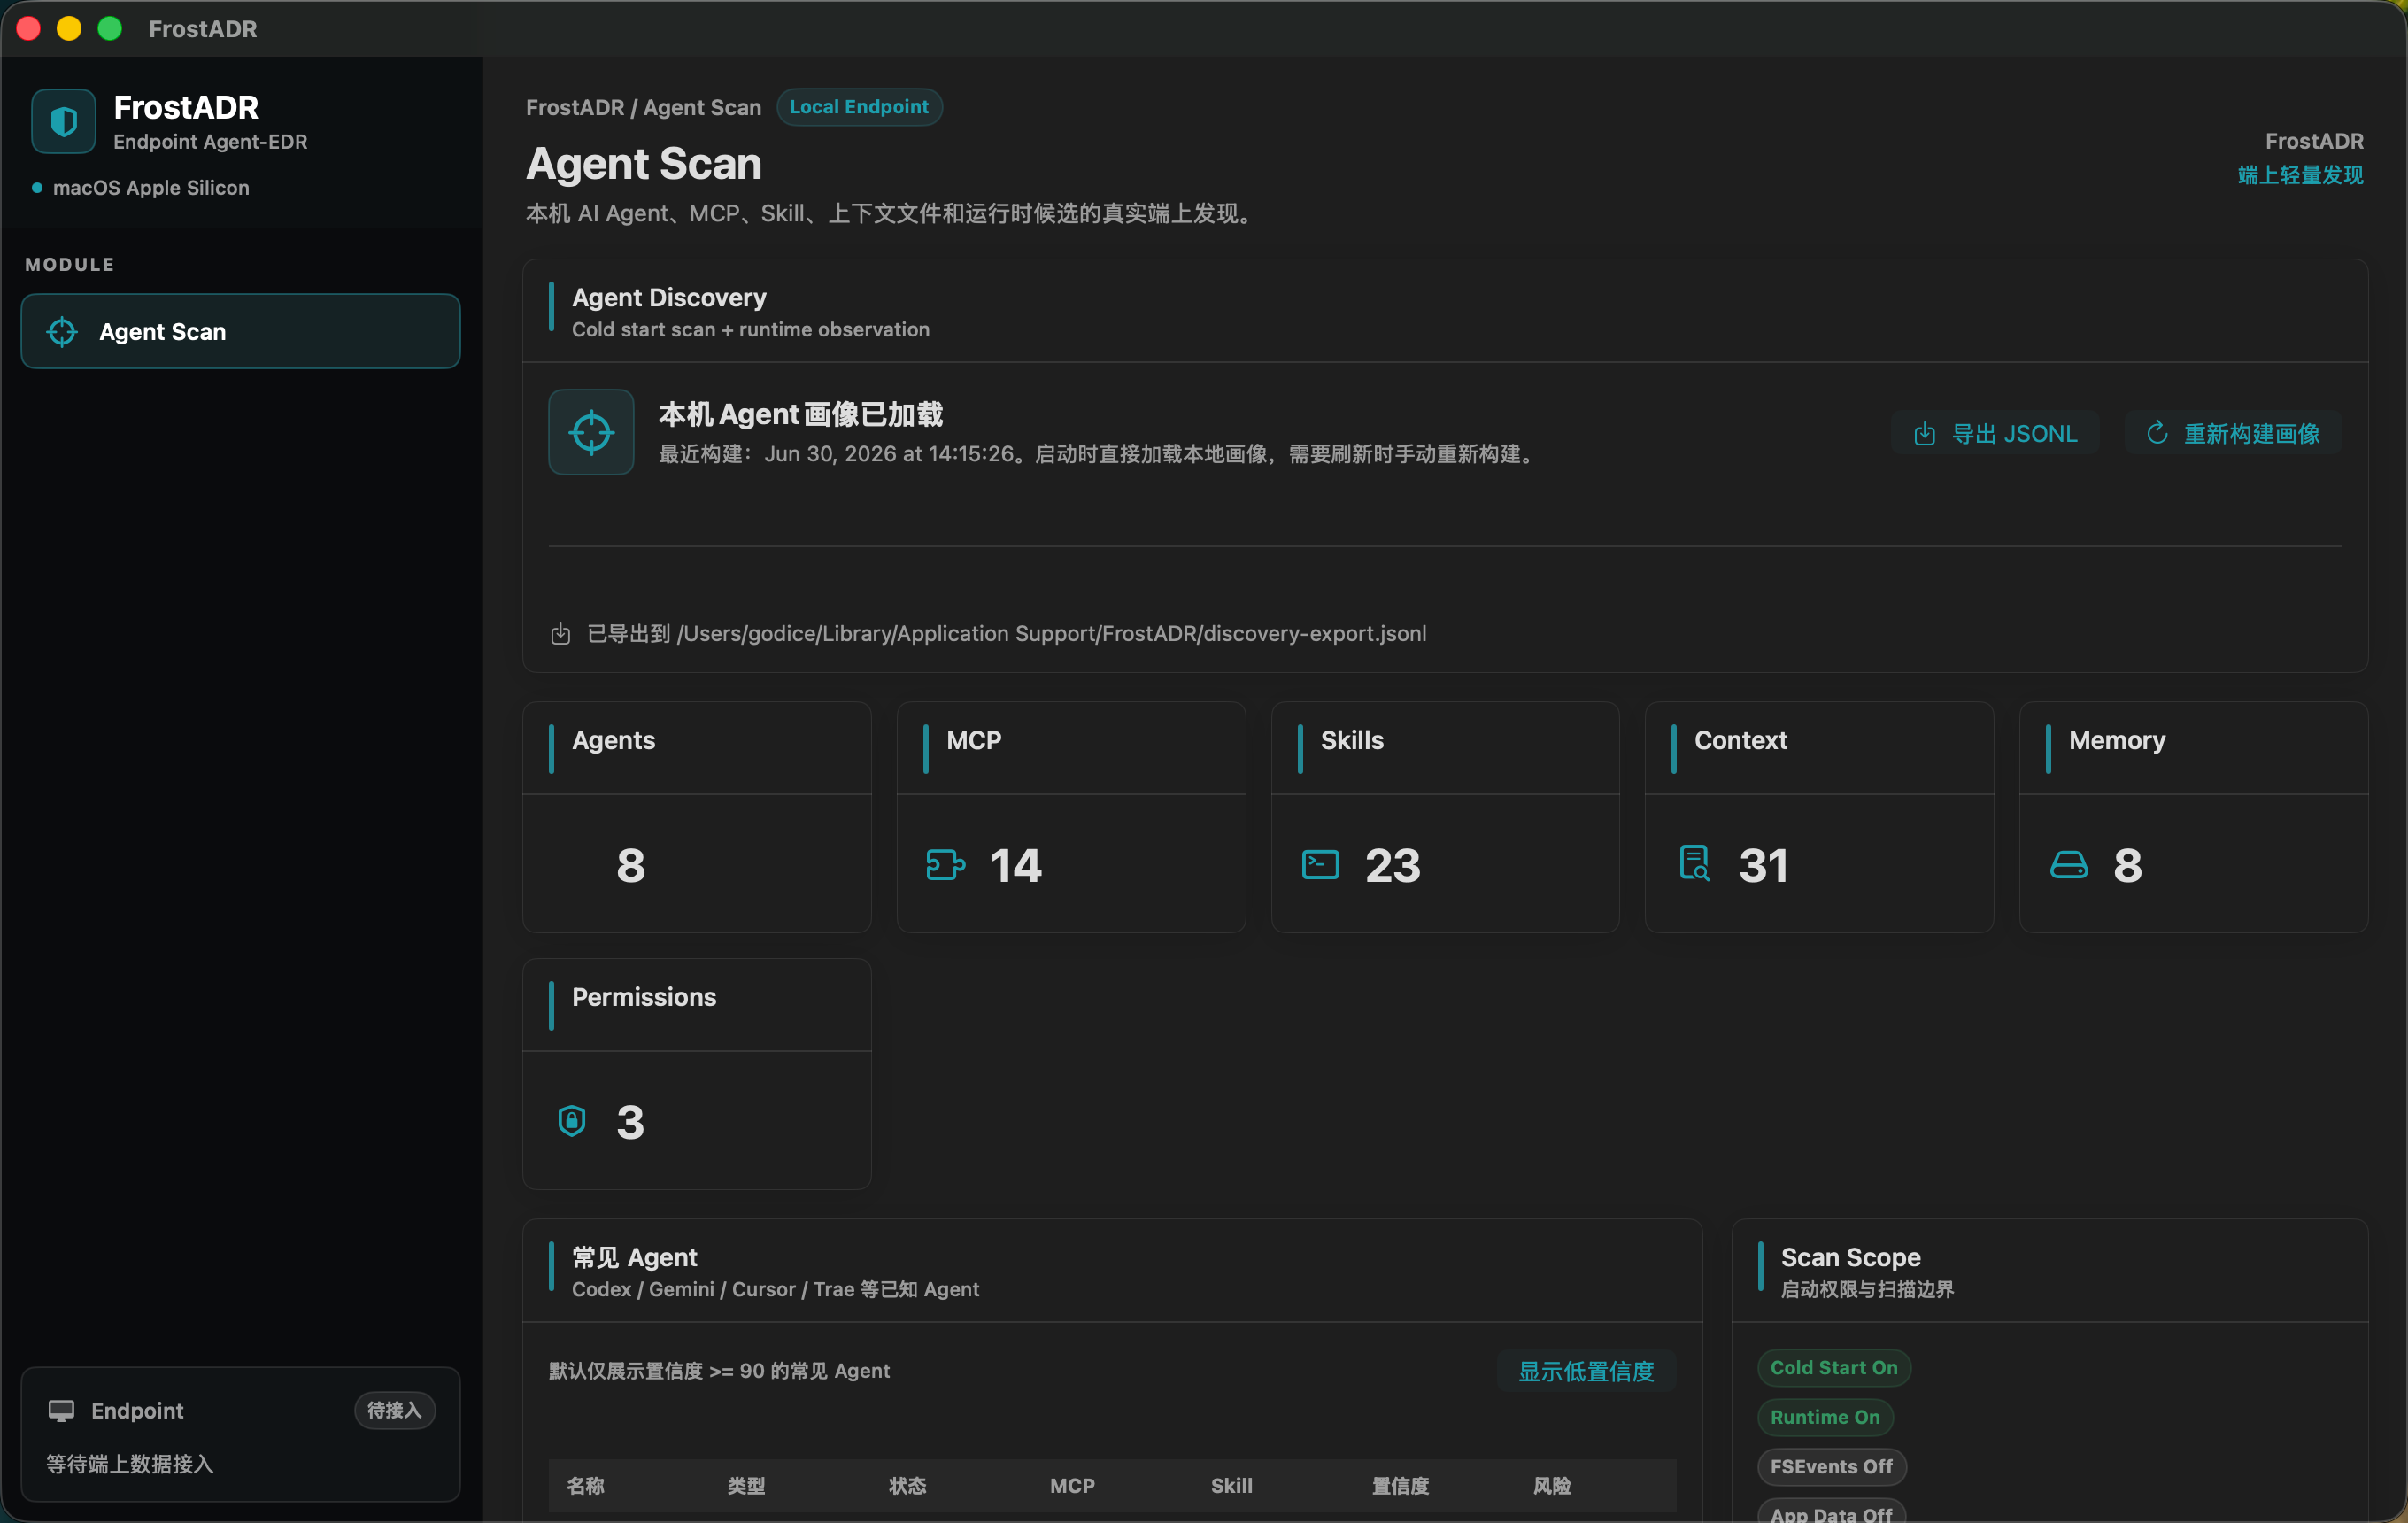
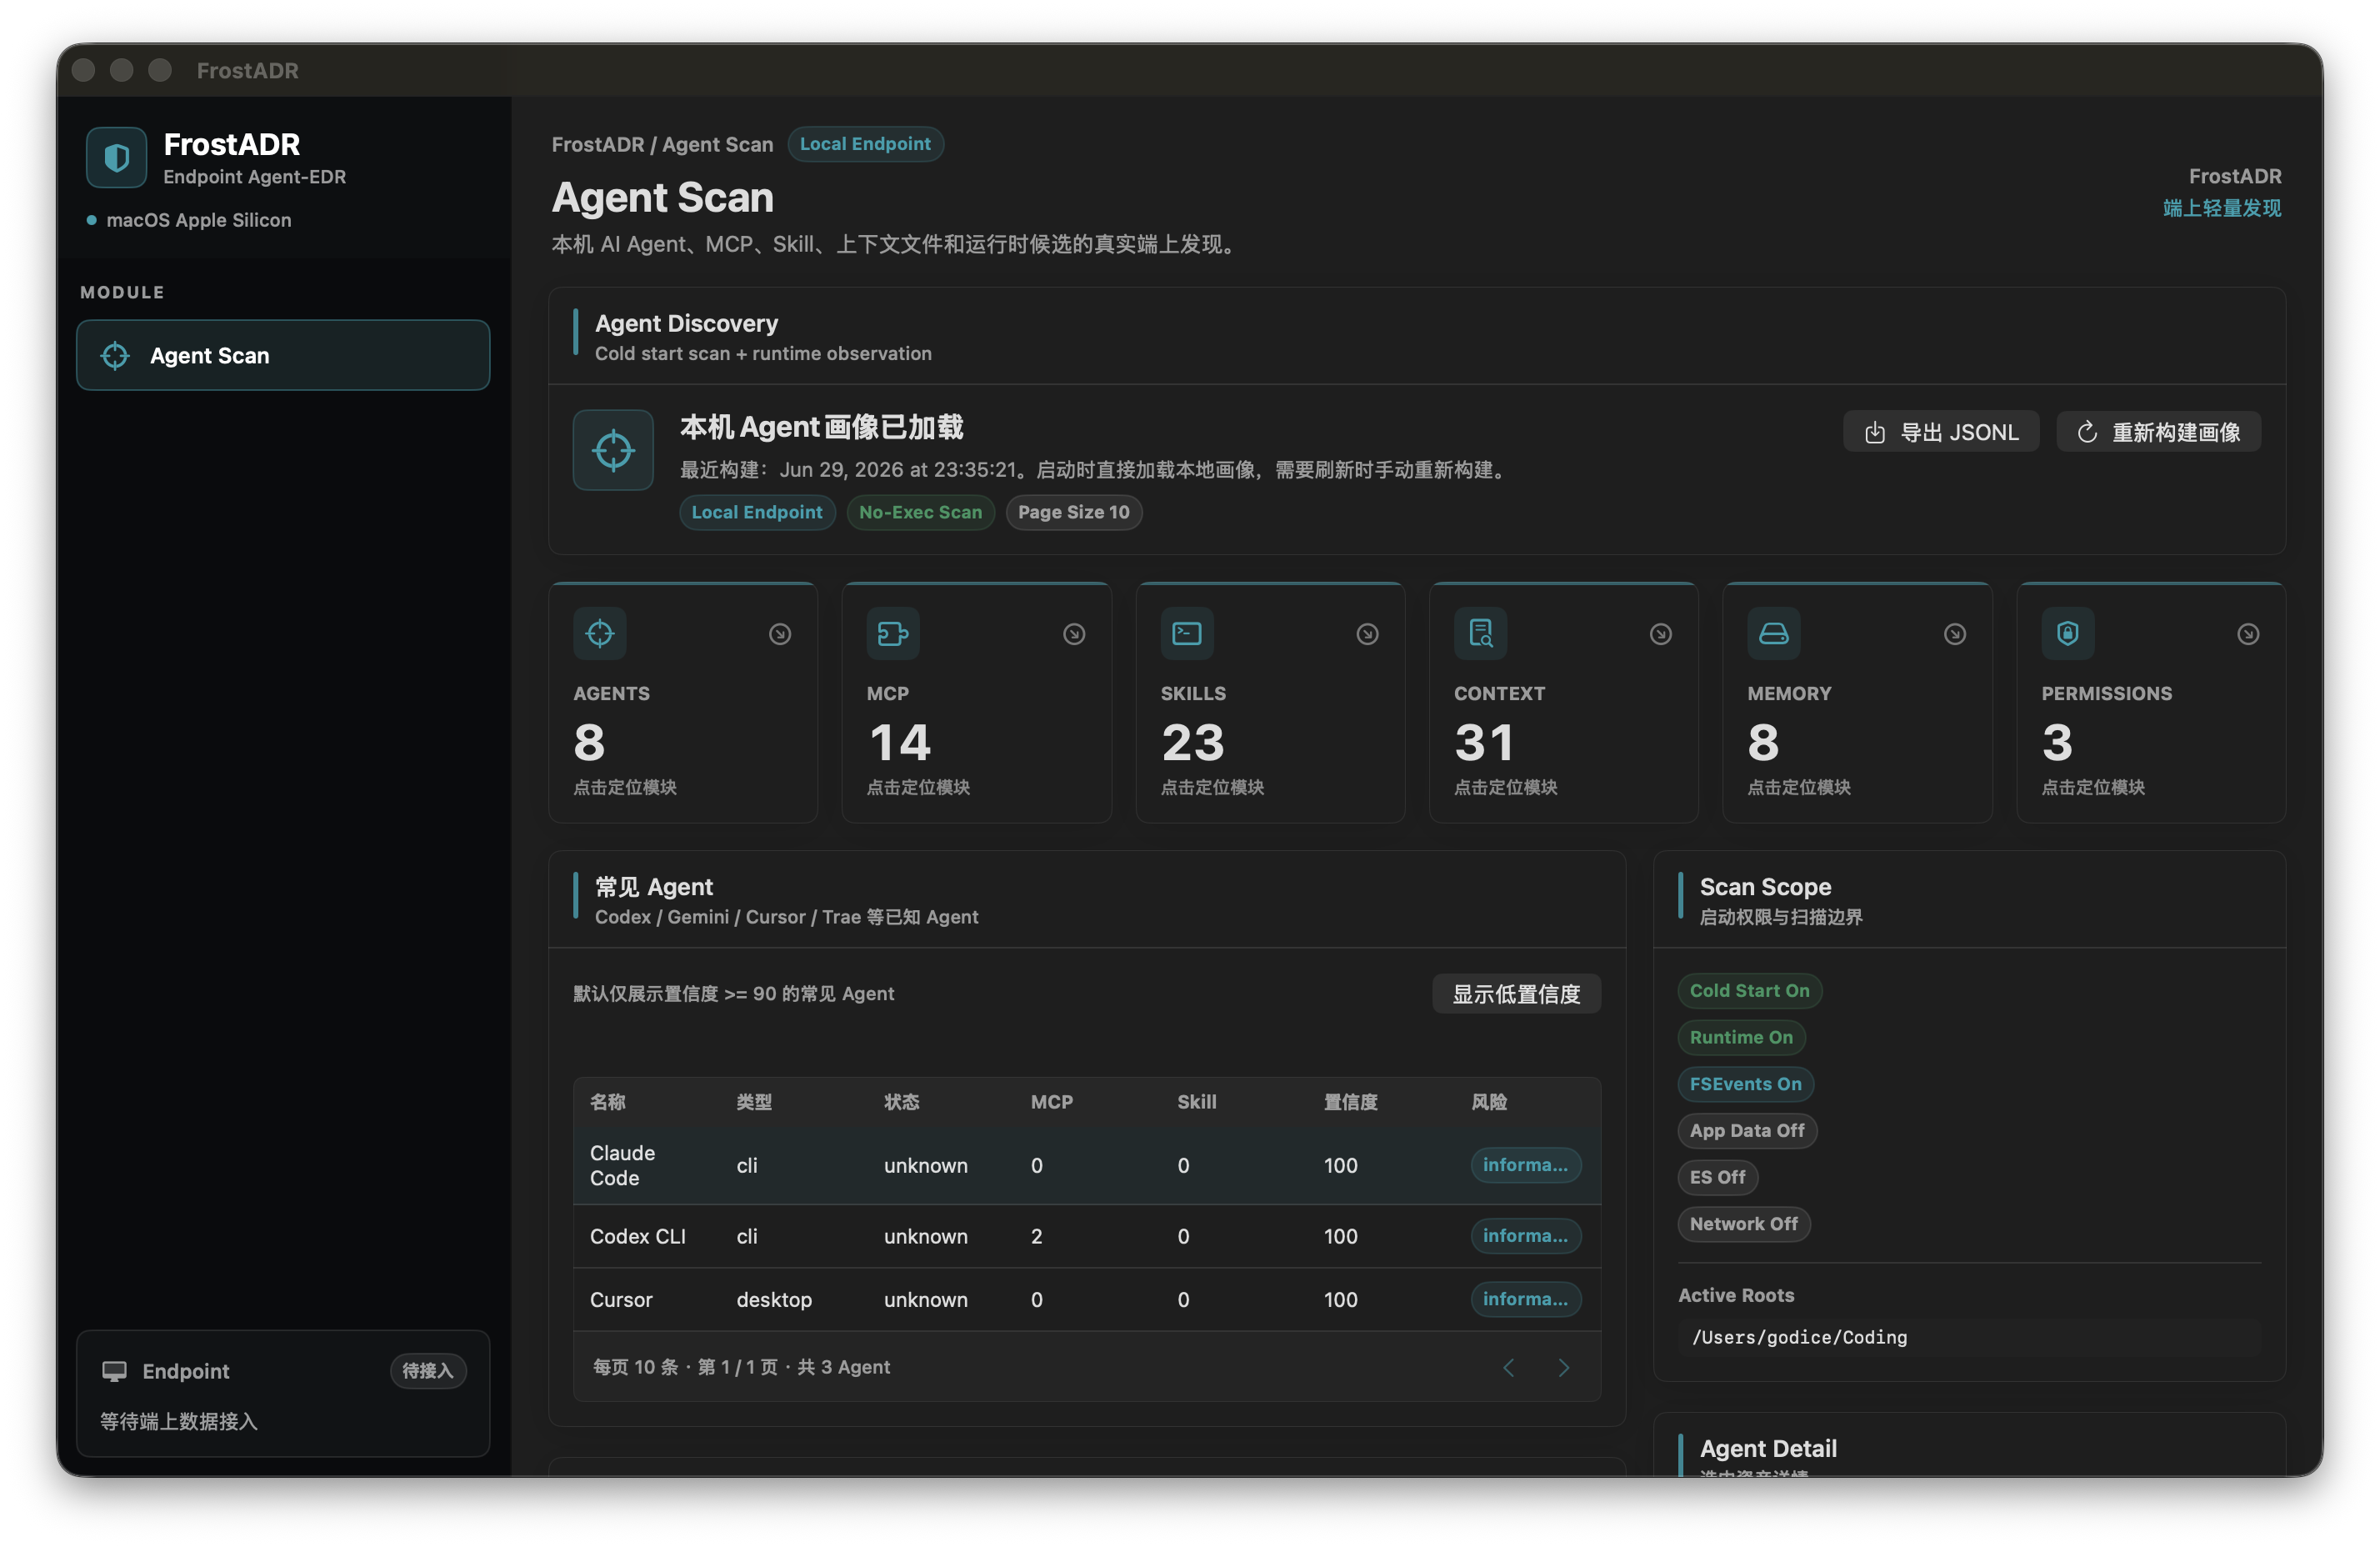
feat(ui): refine agent scan pagination layout

diff --git a/Sources/FrostADR/Views/AgentScan/AgentScanView.swift b/Sources/FrostADR/Views/AgentScan/AgentScanView.swift
@@ -20,8 +20,9 @@ struct AgentScanView: View {
   @State private var skillPage = 0
   @State private var contextPage = 0
   @State private var memoryPage = 0
+  @State private var permissionPage = 0
 
-  private let pageSize = 20
+  private let pageSize = 10
 
   var body: some View {
     ScrollViewReader { scrollProxy in
@@ -44,7 +45,7 @@ struct AgentScanView: View {
 
   private var header: some View {
     FrostCard("Agent Discovery", subtitle: "Cold start scan + runtime observation") {
-      HStack(alignment: .center, spacing: 14) {
+      HStack(alignment: .top, spacing: 16) {
         ZStack {
           RoundedRectangle(cornerRadius: 8, style: .continuous)
             .fill(FrostTheme.accent.opacity(0.13))
@@ -59,35 +60,47 @@ struct AgentScanView: View {
         }
         .frame(width: 48, height: 48)
 
-        VStack(alignment: .leading, spacing: 5) {
+        VStack(alignment: .leading, spacing: 8) {
           Text(viewModel.isScanning ? "正在构建本机Agent画像" : headerTitle)
-            .font(.system(size: 16, weight: .bold))
+            .font(.system(size: 17, weight: .bold))
 
           Text(statusLine)
             .font(.system(size: 12))
             .foregroundStyle(FrostTheme.mutedText)
+            .lineLimit(2)
+            .fixedSize(horizontal: false, vertical: true)
+
+          HStack(spacing: 7) {
+            StatusBadge(label: "Local Endpoint", tone: .info)
+            StatusBadge(label: "No-Exec Scan", tone: .healthy)
+            StatusBadge(label: "Page Size 10", tone: .neutral)
+          }
         }
 
         Spacer()
 
-        if viewModel.isScanning {
-          ProgressView()
-            .controlSize(.small)
-        }
+        HStack(spacing: 10) {
+          if viewModel.isScanning {
+            ProgressView()
+              .controlSize(.small)
+          }
 
-        Button {
-          viewModel.exportJSONL()
-        } label: {
-          Label("导出 JSONL", systemImage: "square.and.arrow.down")
-        }
-        .disabled(viewModel.isScanning)
+          Button {
+            viewModel.exportJSONL()
+          } label: {
+            Label("导出 JSONL", systemImage: "square.and.arrow.down")
+          }
+          .disabled(viewModel.isScanning)
 
-        Button {
-          viewModel.rescan()
-        } label: {
-          Label("重新构建画像", systemImage: "arrow.clockwise")
+          Button {
+            viewModel.rescan()
+          } label: {
+            Label("重新构建画像", systemImage: "arrow.clockwise")
+          }
+          .buttonStyle(.borderedProminent)
+          .tint(FrostTheme.accent)
+          .disabled(viewModel.isScanning)
         }
-        .disabled(viewModel.isScanning)
       }
 
       if let error = viewModel.errorMessage {
@@ -114,11 +127,11 @@ struct AgentScanView: View {
   }
 
   private func summaryGrid(_ scrollProxy: ScrollViewProxy) -> some View {
-    LazyVGrid(columns: [GridItem(.adaptive(minimum: 170), spacing: 14)], spacing: 14) {
+    LazyVGrid(columns: [GridItem(.adaptive(minimum: 150), spacing: 14)], spacing: 14) {
       metric(
         "Agents",
         value: viewModel.snapshot.agents.count,
-        icon: "laptopcomputer.and.magnifyingglass",
+        icon: "scope",
         section: .agents,
         scrollProxy: scrollProxy
       )
@@ -172,20 +185,56 @@ struct AgentScanView: View {
         scrollProxy.scrollTo(section, anchor: .top)
       }
     } label: {
-      FrostCard(title) {
-        HStack(spacing: 12) {
-          Image(systemName: icon)
-            .font(.system(size: 18, weight: .semibold))
-            .foregroundStyle(FrostTheme.accent)
-            .frame(width: 26)
+      VStack(alignment: .leading, spacing: 13) {
+        HStack(alignment: .center, spacing: 10) {
+          ZStack {
+            RoundedRectangle(cornerRadius: 7, style: .continuous)
+              .fill(FrostTheme.accent.opacity(0.12))
+            Image(systemName: icon)
+              .font(.system(size: 15, weight: .semibold))
+              .foregroundStyle(FrostTheme.accent)
+          }
+          .frame(width: 32, height: 32)
+
+          Spacer(minLength: 0)
+
+          Image(systemName: "arrow.down.right.circle")
+            .font(.system(size: 13, weight: .semibold))
+            .foregroundStyle(FrostTheme.mutedText.opacity(0.72))
+        }
+
+        VStack(alignment: .leading, spacing: 4) {
+          Text(title)
+            .font(.system(size: 11, weight: .bold))
+            .foregroundStyle(FrostTheme.mutedText)
+            .textCase(.uppercase)
 
           Text("\(value)")
-            .font(.system(size: 26, weight: .bold))
+            .font(.system(size: 30, weight: .bold))
+            .monospacedDigit()
 
-          Spacer()
+          Text("点击定位模块")
+            .font(.system(size: 10.5, weight: .medium))
+            .foregroundStyle(FrostTheme.mutedText.opacity(0.84))
         }
-        .frame(minHeight: 48)
       }
+      .padding(15)
+      .frame(maxWidth: .infinity, minHeight: 124, alignment: .leading)
+      .background(
+        RoundedRectangle(cornerRadius: FrostTheme.radius, style: .continuous)
+          .fill(FrostTheme.elevatedCardBackground)
+      )
+      .overlay(alignment: .top) {
+        Rectangle()
+          .fill(FrostTheme.accent.opacity(0.52))
+          .frame(height: 2)
+      }
+      .overlay(
+        RoundedRectangle(cornerRadius: FrostTheme.radius, style: .continuous)
+          .stroke(FrostTheme.border, lineWidth: 1)
+      )
+      .clipShape(RoundedRectangle(cornerRadius: FrostTheme.radius, style: .continuous))
+      .shadow(color: FrostTheme.shadow.opacity(0.76), radius: 12, x: 0, y: 4)
     }
     .buttonStyle(.plain)
     .pointingHandCursor()
@@ -198,8 +247,8 @@ struct AgentScanView: View {
 
   @ViewBuilder
   private var content: some View {
-    FrostDetailLayout(detailWidth: 360) {
-      VStack(alignment: .leading, spacing: 16) {
+    FrostDetailLayout(detailWidth: 380) {
+      VStack(alignment: .leading, spacing: 18) {
         if isDiscoveryEmpty && !viewModel.isScanning {
           emptyOverview
         } else {
@@ -214,7 +263,7 @@ struct AgentScanView: View {
         }
       }
     } detail: {
-      VStack(alignment: .leading, spacing: 16) {
+      VStack(alignment: .leading, spacing: 18) {
         scanScopeSection
         selectedAgentSection
         runtimeSection
@@ -308,7 +357,7 @@ struct AgentScanView: View {
           message: "已发现低置信度常见 Agent，可点击右上角显示。",
           systemImage: "line.3.horizontal.decrease.circle", compact: true)
       } else {
-        VStack(spacing: 0) {
+        tableSurface {
           tableHeader(["名称", "类型", "状态", "MCP", "Skill", "置信度", "风险"])
           ForEach(visibleAgents) { agent in
             agentRow(agent)
@@ -330,7 +379,7 @@ struct AgentScanView: View {
           message: "没有发现通过行为指纹或上下文文件识别出的本机自研 Agent。",
           systemImage: "terminal", compact: true)
       } else {
-        VStack(spacing: 0) {
+        tableSurface {
           tableHeader(["名称", "类型", "状态", "MCP", "Skill", "置信度", "风险"])
           ForEach(visibleAgents) { agent in
             agentRow(agent)
@@ -375,7 +424,11 @@ struct AgentScanView: View {
   }
 
   private var mcpSkillGrid: some View {
-    HStack(alignment: .top, spacing: 16) {
+    LazyVGrid(
+      columns: [GridItem(.flexible(), spacing: 16), GridItem(.flexible(), spacing: 16)],
+      alignment: .leading,
+      spacing: 16
+    ) {
       mcpSection
         .id(AgentScanSection.mcp)
       skillSection
@@ -392,7 +445,7 @@ struct AgentScanView: View {
           title: "暂无 MCP Server", message: "未发现真实 MCP 配置。", systemImage: "puzzlepiece.extension",
           compact: true)
       } else {
-        VStack(spacing: 0) {
+        tableSurface {
           tableHeader(["名称", "Transport", "Command", "Risk", "Inspection"])
           ForEach(visibleServers) { server in
             clickableRow(
@@ -421,7 +474,7 @@ struct AgentScanView: View {
         EmptyStateView(
           title: "暂无 Skill", message: "未发现真实 Skill 目录。", systemImage: "terminal", compact: true)
       } else {
-        VStack(spacing: 0) {
+        tableSurface {
           tableHeader(["名称", "脚本", "外部 URL", "安装指令", "风险"])
           ForEach(visibleSkills) { skill in
             clickableRow(
@@ -451,7 +504,7 @@ struct AgentScanView: View {
           title: "暂无上下文文件", message: "未发现 AGENTS.md、CLAUDE.md、rules 或 settings 文件。",
           systemImage: "doc.text", compact: true)
       } else {
-        VStack(spacing: 0) {
+        tableSurface {
           tableHeader(["类型", "路径", "摘要"])
           ForEach(visibleFiles) { item in
             clickableRow(
@@ -479,7 +532,7 @@ struct AgentScanView: View {
           title: "暂无 Memory 文件", message: "未发现 session、cache 或 memory 文件。",
           systemImage: "externaldrive", compact: true)
       } else {
-        VStack(spacing: 0) {
+        tableSurface {
           tableHeader(["类型", "路径", "格式"])
           ForEach(visibleMemories) { item in
             clickableRow(["Memory", item.path, item.format.rawValue], help: "打开 Memory 文件位置") {
@@ -494,18 +547,25 @@ struct AgentScanView: View {
   }
 
   private var permissionSection: some View {
-    FrostCard("Permission / Runtime Status", subtitle: "真实权限和运行时观察状态") {
-      VStack(spacing: 0) {
-        tableHeader(["能力", "状态", "说明"])
-        ForEach(viewModel.snapshot.permissionStates) { state in
-          row([state.capability.rawValue, state.status.rawValue, state.message])
-        }
-        if viewModel.snapshot.permissionStates.isEmpty {
-          EmptyStateView(
-            title: "暂无额外权限请求",
-            message:
-              "默认轻量发现不会主动请求 Full Disk Access、App Data、Endpoint Security 或 Network Extension 权限。",
-            systemImage: "lock.shield", compact: true)
+    let visiblePermissionStates = pageItems(
+      viewModel.snapshot.permissionStates, page: permissionPage)
+
+    return FrostCard("Permission / Runtime Status", subtitle: "真实权限和运行时观察状态") {
+      if viewModel.snapshot.permissionStates.isEmpty {
+        EmptyStateView(
+          title: "暂无额外权限请求",
+          message:
+            "默认轻量发现不会主动请求 Full Disk Access、App Data、Endpoint Security 或 Network Extension 权限。",
+          systemImage: "lock.shield", compact: true)
+      } else {
+        tableSurface {
+          tableHeader(["能力", "状态", "说明"])
+          ForEach(visiblePermissionStates) { state in
+            row([state.capability.rawValue, state.status.rawValue, state.message])
+          }
+          paginationFooter(
+            total: viewModel.snapshot.permissionStates.count, page: $permissionPage,
+            label: "Permission")
         }
       }
     }
@@ -636,12 +696,12 @@ struct AgentScanView: View {
 
   @ViewBuilder
   private func paginationFooter(total: Int, page: Binding<Int>, label: String) -> some View {
-    if total > pageSize {
+    if total > 0 {
       let currentPage = safePage(page.wrappedValue, total: total)
       let pages = pageCount(total: total)
 
       HStack(spacing: 10) {
-        Text("第 \(currentPage + 1) / \(pages) 页 · 共 \(total) \(label)")
+        Text("每页 \(pageSize) 条 · 第 \(currentPage + 1) / \(pages) 页 · 共 \(total) \(label)")
           .font(.system(size: 11, weight: .medium))
           .foregroundStyle(FrostTheme.mutedText)
 
@@ -651,6 +711,7 @@ struct AgentScanView: View {
           page.wrappedValue = max(0, currentPage - 1)
         } label: {
           Image(systemName: "chevron.left")
+            .frame(width: 22, height: 22)
         }
         .buttonStyle(.borderless)
         .disabled(currentPage == 0)
@@ -660,15 +721,31 @@ struct AgentScanView: View {
           page.wrappedValue = min(pages - 1, currentPage + 1)
         } label: {
           Image(systemName: "chevron.right")
+            .frame(width: 22, height: 22)
         }
         .buttonStyle(.borderless)
         .disabled(currentPage >= pages - 1)
         .help("下一页")
       }
-      .padding(.horizontal, 10)
-      .padding(.vertical, 9)
-      .background(FrostTheme.tableRowBackground.opacity(0.55))
+      .padding(.horizontal, 12)
+      .padding(.vertical, 10)
+      .background(FrostTheme.tableHeaderBackground.opacity(0.68))
     }
+  }
+
+  private func tableSurface<Content: View>(@ViewBuilder content: () -> Content) -> some View {
+    VStack(spacing: 0) {
+      content()
+    }
+    .background(
+      RoundedRectangle(cornerRadius: FrostTheme.compactRadius, style: .continuous)
+        .fill(FrostTheme.moduleWellBackground)
+    )
+    .overlay(
+      RoundedRectangle(cornerRadius: FrostTheme.compactRadius, style: .continuous)
+        .stroke(FrostTheme.subtleBorder, lineWidth: 1)
+    )
+    .clipShape(RoundedRectangle(cornerRadius: FrostTheme.compactRadius, style: .continuous))
   }
 
   private func tableHeader(_ columns: [String]) -> some View {
@@ -708,6 +785,7 @@ struct AgentScanView: View {
           rowText(value)
         }
       }
+      .background(FrostTheme.tableRowBackground.opacity(0.42))
       Divider()
     }
   }

diff --git a/README.md b/README.md
@@ -39,7 +39,7 @@ FrostADR explores an endpoint-native security layer for this new surface:
 - Skill discovery and lightweight pre-scan signals.
 - Context and Memory metadata discovery.
 - Clickable metrics for quick navigation between modules.
-- Paginated long lists for large Skill / Context / Memory inventories.
+- Fixed 10-row pagination across inventory and runtime status modules.
 - Finder path reveal for Agent, MCP, Skill, Context, and Memory assets.
 - Local JSONL export with Finder reveal.
 - Default local-first, no-exec, minimum-permission discovery flow.